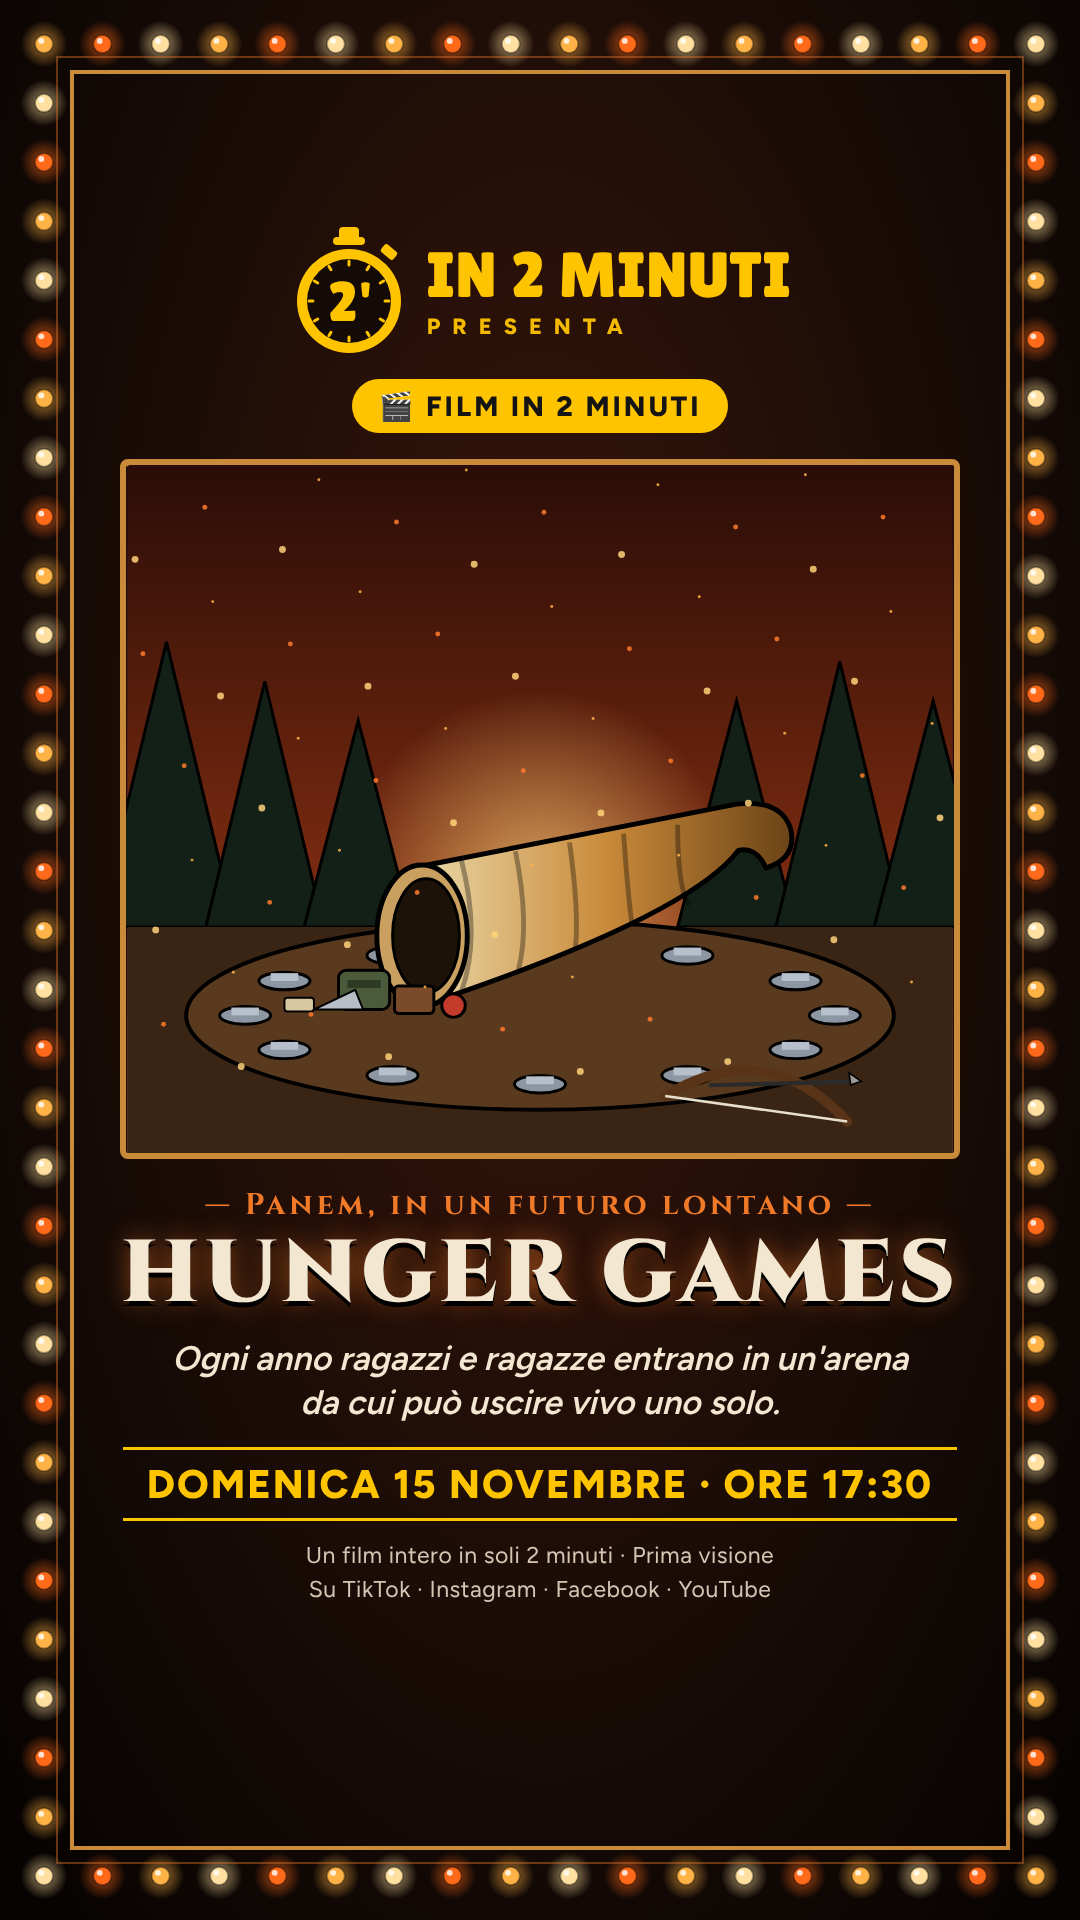
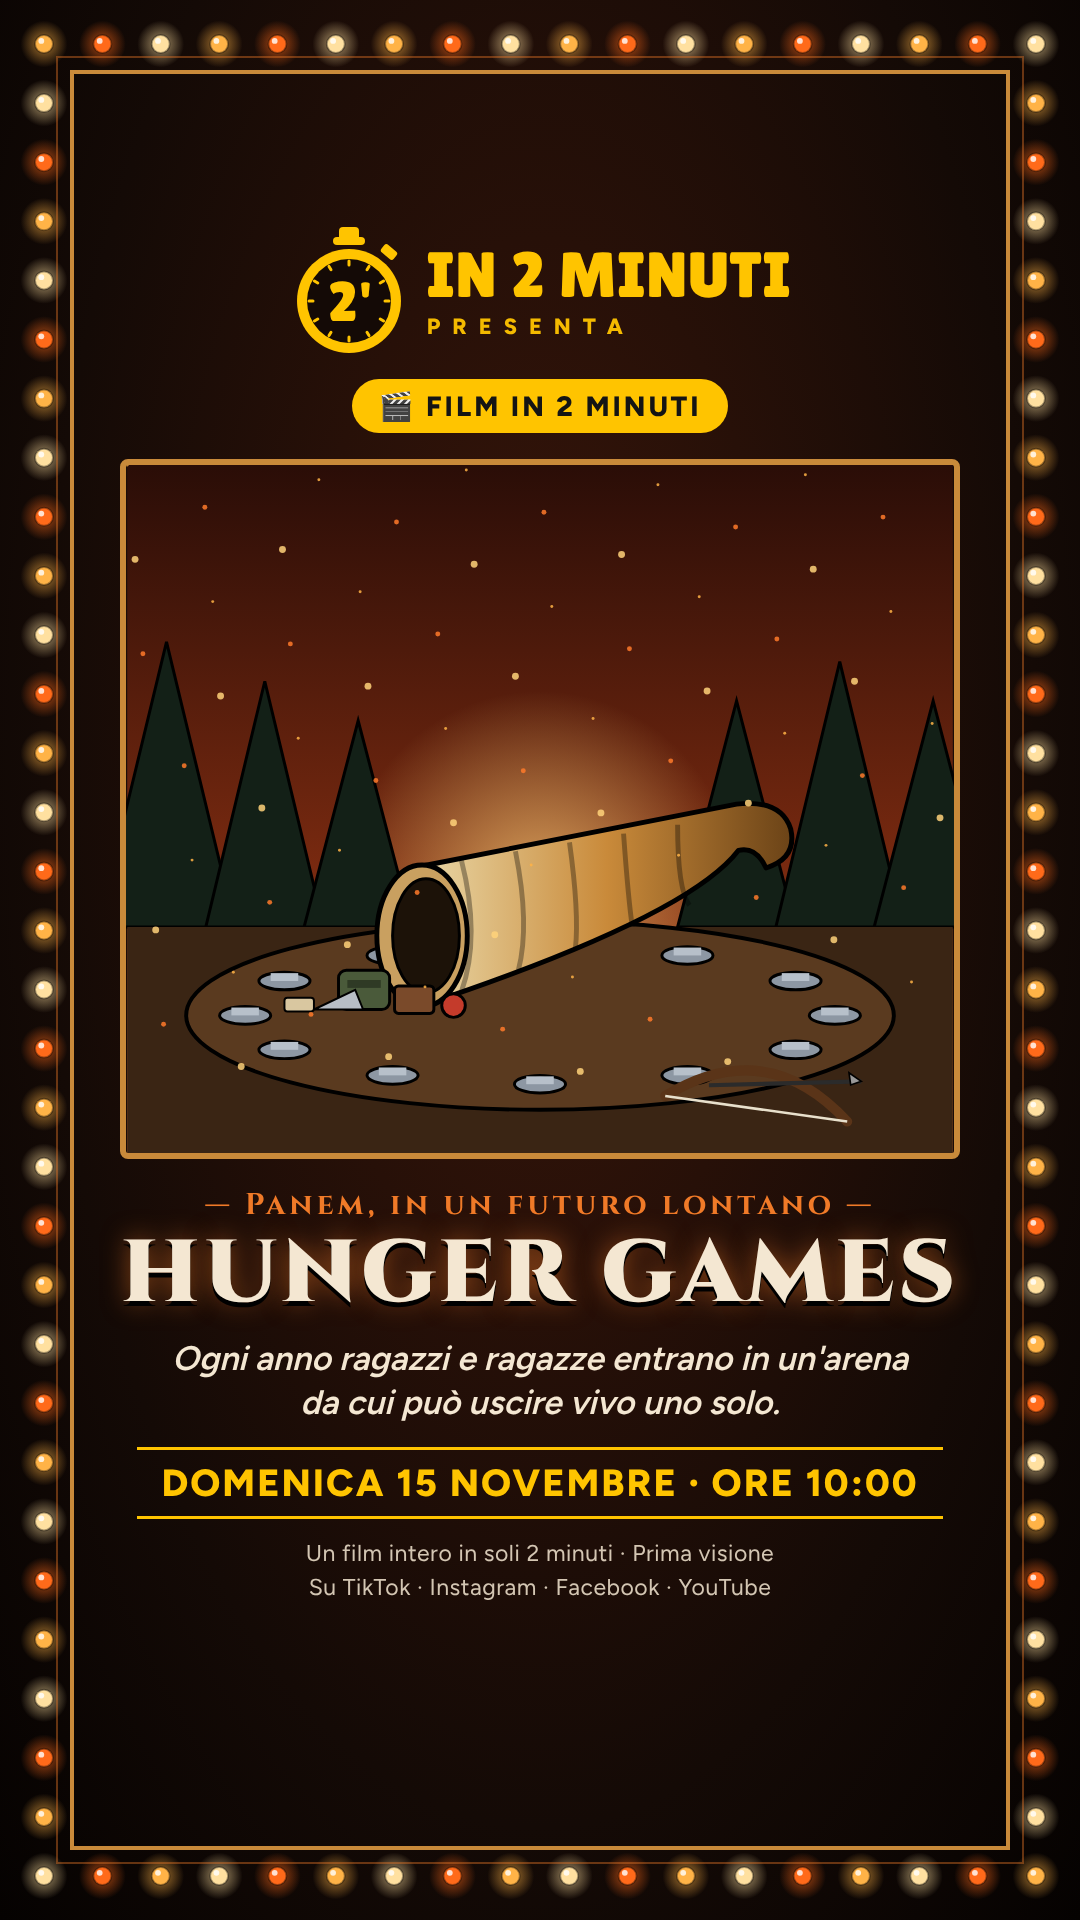
Domenica 15: Hunger Games alle 10:00, Bove alle 17:00 (storie aggiornate), La grande onda rimandata
Claude-Session: https://claude.ai/code/session_016Z3bHkXefTBfVvcFhkNzbJ

Changed region(s): [[0.1222, 0.75, 0.8556, 0.8438], [0.275, 0.8125, 0.3056, 0.8438]]

diff --git a/scripts/strumenti/storie/bove.py b/scripts/strumenti/storie/bove.py
@@ -1,0 +1,52 @@
+import sys, math; sys.path.insert(0,'/tmp/claude-0/storie/gen'); from base import *
+INK='#F2EEE6'; BG='#0A0B12'; PUR='#4A3478'; YEL='#F5C518'; GRASS='#1f6b3a'
+# linea del battito
+ecg='M0 170 L250 170 L275 170 L290 140 L305 170 L330 170 L345 60 L362 250 L378 130 L392 170 L560 170 L575 150 L590 170 L840 170'
+towers=''.join(f'''<g transform="translate({x} 0)"><rect x="-6" y="120" width="12" height="230" fill="#2b2d3a" stroke="#000" stroke-width="3"/>
+<rect x="-46" y="80" width="92" height="50" rx="4" fill="#1d1f2b" stroke="#000" stroke-width="3"/>
+{''.join(f'<circle cx="{-34+i*17}" cy="{94+j*20}" r="6" fill="#fff7d6"/>' for i in range(5) for j in range(2))}
+<path d="M-46 130 L{-260 if x<420 else 120} 640 L{-60 if x<420 else 320} 640 Z" fill="#fff7d6" opacity=".10"/></g>''' for x in (110,730))
+crowd=''.join(f'<rect x="{i*14}" y="{345+(i*7)%9}" width="10" height="8" rx="2" fill="#2a2440" opacity=".9"/>' for i in range(60))
+svg=f'''<svg width="828" height="688" viewBox="0 0 840 700" role="img" aria-label="Uno stadio vuoto di notte: il prato illuminato dai fari, un pallone fermo sul dischetto di centrocampo, una linea gialla del battito cardiaco nel cielo e un tabellone con l'orologio fermo al minuto 17">
+<defs>
+<linearGradient id="sky" x1="0" y1="0" x2="0" y2="1"><stop offset="0" stop-color="#07070f"/><stop offset="1" stop-color="#2a1d4a"/></linearGradient>
+<linearGradient id="pitch" x1="0" y1="0" x2="0" y2="1"><stop offset="0" stop-color="#1c5a33"/><stop offset="1" stop-color="#2b8a4c"/></linearGradient>
+<filter id="glow"><feGaussianBlur stdDeviation="5" result="b"/><feMerge><feMergeNode in="b"/><feMergeNode in="SourceGraphic"/></feMerge></filter>
+</defs>
+<rect width="840" height="700" fill="url(#sky)"/>
+{''.join(f'<circle cx="{(i*97)%840}" cy="{(i*41)%160}" r="1.6" fill="#fff" opacity=".5"/>' for i in range(40))}
+<path d="{ecg}" fill="none" stroke="{YEL}" stroke-width="7" stroke-linejoin="round" filter="url(#glow)"/>
+<!-- tribune -->
+<path d="M0 300 Q420 250 840 300 L840 380 L0 380 Z" fill="#191626" stroke="#000" stroke-width="3"/>
+{crowd}
+{towers}
+<!-- tabellone -->
+<g transform="translate(420 300)"><rect x="-80" y="-56" width="160" height="66" rx="6" fill="#111" stroke="{INK}" stroke-width="4"/>
+<text x="0" y="-8" text-anchor="middle" font-family="Big Shoulders Display" font-weight="900" font-size="50" fill="{YEL}" letter-spacing="3">17'</text></g>
+<!-- campo in prospettiva -->
+<path d="M140 380 L700 380 L840 700 L0 700 Z" fill="url(#pitch)"/>
+{''.join(f'<path d="M{140+i*80} 380 L{700-(6-i)*80+(i-0)*0} 380" stroke="none"/>' for i in range(1))}
+{''.join(f'<path d="M{140+i*56:.0f} 380 L{0+i*84:.0f} 700 L{84+i*84:.0f} 700 L{196+i*56:.0f} 380 Z" fill="#ffffff" opacity=".05"/>' for i in range(0,10,2))}
+<path d="M140 380 L700 380 L840 700 L0 700 Z" fill="none" stroke="#e9f5ec" stroke-width="5"/>
+<line x1="70" y1="540" x2="770" y2="540" stroke="#e9f5ec" stroke-width="5"/>
+<ellipse cx="420" cy="540" rx="150" ry="46" fill="none" stroke="#e9f5ec" stroke-width="5"/>
+<ellipse cx="420" cy="540" rx="6" ry="3" fill="#e9f5ec"/>
+<!-- pallone -->
+<g transform="translate(420 520)"><ellipse cx="0" cy="22" rx="28" ry="7" fill="#000" opacity=".35"/>
+<circle r="24" fill="#f7f7f2" stroke="#000" stroke-width="4"/>
+<path d="M0 -9 L9 -3 L6 8 L-6 8 L-9 -3 Z" fill="#111"/>
+<path d="M0 -9 L0 -23 M9 -3 L22 -8 M6 8 L14 19 M-6 8 L-14 19 M-9 -3 L-22 -8" stroke="#111" stroke-width="3"/></g>
+<!-- bordo del campo -->
+<rect x="0" y="380" width="840" height="10" fill="#0f2a1a"/>
+</svg>'''
+p=dict(bg=BG, ink=INK, accent=YEL, bgcss=f'background:radial-gradient(ellipse at 50% 40%, #241a3f 0%, {BG} 65%, #030307 100%);',
+ bulbs=[YEL,'#FFF7D6',YEL,'#9B7BE0'], glow=0.55,
+ frame_css=f'4px solid {PUR}', frame_extra=f'outline:2px solid {YEL}77; outline-offset:12px;',
+ collab='file:///home/user/Velocinema__/public/collab/mrgoal-scritta.png',
+ badge='⚽ LA STORIA IN 2 MINUTI', badge_bg='#FFC400', badge_ink='#141414', svg=svg, ill_border=f'6px solid {INK}',
+ ctx='Firenze, 1 dicembre 2024', ctx_font="Oswald",
+ title=['EDOARDO BOVE'], title_css=f"font-family:'Bebas Neue';font-size:150px;letter-spacing:6px;color:{INK};text-shadow:0 6px 0 {PUR},0 0 26px {YEL}44;",
+ sub='DAL DOCUMENTARIO «IN UN BATTITO»', sub_css='font-size:28px;letter-spacing:5px;white-space:nowrap;',
+ teaser='Un malore in campo a 22 anni.<br>Come ha fatto a tornare a giocare?',
+ date='DOMENICA 15 NOVEMBRE · ORE 17:00', date_col='#FFC400', cred='Una storia vera in soli 2 minuti · Prima visione')
+open('/tmp/claude-0/storie/bove.html','w').write(page(p))

diff --git a/scripts/strumenti/storie/base.py b/scripts/strumenti/storie/base.py
@@ -42,6 +42,7 @@ def page(p):
 .col{{position:absolute;left:120px;width:840px;top:{p.get('top',225)}px;display:flex;flex-direction:column;align-items:center;}}
 .logo{{display:flex;align-items:center;gap:18px}}
 .logo .w{{font-family:'Lilita One';font-size:64px;line-height:1;color:{lo};letter-spacing:1px}}
+.x{{font-family:Figtree;font-weight:800;font-size:54px;color:{lo};margin:0 4px}} .collab{{height:{p.get('collab_h',84)}px}}
 .presenta{{font-family:Figtree;font-weight:800;font-size:22px;letter-spacing:12px;color:{lo};margin-top:6px;opacity:.95}}
 .badge{{margin-top:22px;padding:10px 26px;border-radius:999px;background:{p['badge_bg']};color:{p['badge_ink']};font-weight:800;font-size:28px;letter-spacing:3px;border:{p.get('badge_border','none')}}}
 .ill{{margin-top:26px;width:840px;height:{p.get('ill_h',700)}px;position:relative;overflow:hidden;border:{p.get('ill_border','6px solid '+p['ink'])};border-radius:{p.get('ill_radius',8)}px;{p.get('ill_extra','')}}}
@@ -49,7 +50,7 @@ def page(p):
 .ctx{{margin-top:26px;font-family:{p.get('ctx_font','Figtree')};font-weight:600;font-size:30px;letter-spacing:4px;color:{p.get('ctx_col',p['accent'])}}}
 .title{{margin-top:6px;white-space:nowrap;line-height:1;text-align:center;{p['title_css']}}}
 .title2{{white-space:nowrap;line-height:1;text-align:center;{p['title_css']}}}
-.sub{{margin-top:8px;font-weight:800;font-size:36px;letter-spacing:10px;color:{p['accent']}}}
+.sub{{margin-top:8px;font-weight:800;font-size:36px;letter-spacing:10px;color:{p['accent']};{p.get('sub_css','')}}}
 .teaser{{margin-top:18px;font-size:34px;line-height:1.3;text-align:center;font-style:italic;font-weight:600;max-width:820px}}
 .date{{white-space:nowrap;margin-top:22px;font-family:{p.get('date_font','Figtree')};font-weight:800;font-size:40px;letter-spacing:2px;color:{p['date_col']};padding:10px 24px;border-top:3px solid {p['date_col']};border-bottom:3px solid {p['date_col']}}}
 .cred{{margin-top:18px;font-size:23px;line-height:1.45;text-align:center;opacity:.85;letter-spacing:.5px}}
@@ -58,7 +59,7 @@ def page(p):
 {bulbs(W,H,p.get('bulb_inset',44),p.get('bulb_step',58),p['bulbs'],p.get('glow',0.55),p.get('bulb_r',9))}
 <div class="frame"></div>
 <div class="col">
- <div class="logo">{stopwatch(lo, p.get('logo_ink', p['bg']))}<div><div class="w">IN 2 MINUTI</div><div class="presenta">PRESENTA</div></div></div>
+ <div class="logo">{stopwatch(lo, p.get('logo_ink', p['bg']))}<div><div class="w">IN 2 MINUTI</div><div class="presenta">{'PRESENTANO' if p.get('collab') else 'PRESENTA'}</div></div>{f'<div class="x">×</div><img class="collab" src="{p["collab"]}">' if p.get('collab') else ''}</div>
  <div class="badge">{p['badge']}</div>
  <div class="ill">{p['svg']}</div>
  <div class="ctx">— {p['ctx']} —</div>

diff --git a/scripts/strumenti/storie/hunger.py b/scripts/strumenti/storie/hunger.py
@@ -40,5 +40,5 @@ p=dict(bg=BG, ink=INK, accent=EMB, bgcss=f'background:radial-gradient(ellipse at
  ctx='Panem, in un futuro lontano', ctx_font="Cinzel",
  title=['HUNGER GAMES'], title_css=f"font-family:Cinzel;font-weight:900;font-size:120px;letter-spacing:4px;color:{INK};text-shadow:0 5px 0 #000,0 0 26px {EMB}88;",
  teaser='Ogni anno ragazzi e ragazze entrano in un\'arena<br>da cui può uscire vivo uno solo.',
- date='DOMENICA 15 NOVEMBRE · ORE 17:30', date_col='#FFC400', cred='Un film intero in soli 2 minuti · Prima visione')
+ date='DOMENICA 15 NOVEMBRE · ORE 10:00', date_col='#FFC400', cred='Un film intero in soli 2 minuti · Prima visione')
 open('/tmp/claude-0/storie/hunger.html','w').write(page(p))

diff --git a/calendario/pubblicati.md b/calendario/pubblicati.md
@@ -24,11 +24,10 @@ Visualizzazioni al 14 novembre 2026 (Metricool, ore 6). I dati di TikTok arrivan
 | 11 nov | Dark – stagione 3 | Spiegato semplice | 16.733 | 66.594 | 459 |
 | 12 nov | X Factor 2026 – chi è ancora in gara | Talent | 1.043 | 1.504 | 1 |
 | 13 nov | Shining | Film | – | – | – |
-| 15 nov (13:00) | La grande onda di Kanagawa | Quadro | – | – | – |
 
 Follower TikTok: 2.992 al 12 novembre (2.089 il 6 novembre: +903 in sei giorni; picchi di nuovi follower: 669 il 31 ottobre con Dark, 529 il 30 con Shutter Island, 442 il 7 novembre con Inception).
 
 **YouTube, video lunghi (16:9):** 14 nov – Dark, tutta la serie (`lunghi/dark-tutta-la-serie.json`), dati da YouTube Studio quando l'utente li manda. Prossimo: Ritorno al futuro, la trilogia (`calendario/youtube-ritorno-al-futuro.md`), 13 dicembre.
 
-**In uscita nel weekend 14–15:** Bohemian Rhapsody e Stranger Things 1 (sab 14), Hunger Games (10:00), La grande onda di Kanagawa (13:00, pronta, aggiunta dall'utente il 14 novembre) e Bove «In un battito» (17:30) (dom 15).
+**In uscita nel weekend 14–15:** Bohemian Rhapsody e Stranger Things 1 (sab 14), Hunger Games (10:00) e Bove «In un battito» (17:00) (dom 15). La grande onda di Kanagawa è rimandata: manca la voce.
 **Pronti e non ancora usciti:** Titanic, Frankenstein Junior, Gli anni.
